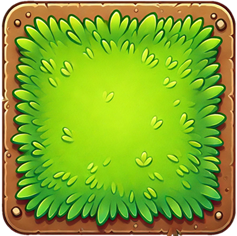
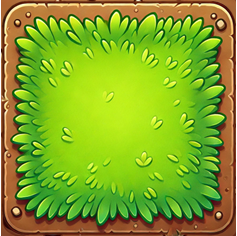
Updated render

Changed region(s): [[0.0, 0.0, 1.0, 1.0]]

diff --git a/src/renderer/renderer.py b/src/renderer/renderer.py
@@ -16,12 +16,12 @@ class Renderer:
         self.image_dir = settings.RENDER_DIR
 
         # Load images once
+        self.item_map = {}  # Map of item locations to image indices
         self.agent_img = mpimg.imread(os.path.join(self.image_dir, "agent.png"))
         self.target_img = mpimg.imread(os.path.join(self.image_dir, "target.png"))
         self.item_images = [
             mpimg.imread(os.path.join(self.image_dir, f"item_{i}.png")) for i in range(4)
         ]
-        self.sparks_img = mpimg.imread(os.path.join(self.image_dir, "sparks.png"))
         self.eligible_cell_img = mpimg.imread(os.path.join(self.image_dir, "eligible_cell.png"))
         self.ineligible_cell_img = mpimg.imread(os.path.join(self.image_dir, "ineligible_cell.png"))
 
@@ -35,7 +35,7 @@ class Renderer:
 
     def _pre_render_grid(self):
         """
-        Pre-render the static grid with eligible/ineligible cells.
+        Pre-render the static grid with eligible/ineligible cells, excluding the target cell.
         """
         rows, cols = self.grid_size
         self.ax.set_xlim(-0.5, cols - 0.5)
@@ -48,9 +48,11 @@ class Renderer:
 
         for r in range(rows):
             for c in range(cols):
+                if (r, c) == (2,0):  # Skip the target cell
+                    continue
                 img = self.eligible_cell_img if (r, c) in self.eligible_cells else self.ineligible_cell_img
                 self.ax.imshow(img, extent=(c - 0.5, c + 0.5, rows - 1 - r - 0.5, rows - 1 - r + 0.5))
-
+                
     def get_images(self):
         return np.array(self.images)
 
@@ -100,23 +102,30 @@ class Renderer:
             fontsize=12, ha="center", color="red", bbox=dict(facecolor="white", alpha=0.7),
         )
 
-        # Draw items with random images
+        # Draw items
         for (item_x, item_y), response_time in zip(item_locs, item_times):
+            # Assign a random ID/image index if this is a new item
+            if (item_x, item_y) not in self.item_map:
+                self.item_map[(item_x, item_y)] = random.choice(range(4))
+
+            image_index = self.item_map[(item_x, item_y)]
+            item_image = self.item_images[image_index]
+
+            # Calculate item size based on remaining lifetime
             lifetime = (self.max_response_time - response_time) / self.max_response_time
             size_factor = 0.3 + 0.7 * lifetime
-            random_item_image = random.choice(self.item_images)  # Randomly choose an item image
             self.ax.imshow(
-                random_item_image,
+                item_image,
                 extent=(item_y - size_factor / 2, item_y + size_factor / 2,
                         rows - 1 - item_x - size_factor / 2, rows - 1 - item_x + size_factor / 2),
             )
 
         # Show sparks if the target count increased
-        if target_count > self.previous_target_count:
+        '''if target_count > self.previous_target_count:
             self.ax.imshow(
                 self.sparks_img,
                 extent=(target_y - 0.5, target_y + 0.5, rows - 1 - target_x - 0.5, rows - 1 - target_x + 0.5),
-            )
+            )'''
 
         # Update the previous target count
         self.previous_target_count = target_count

diff --git a/src/settings.py b/src/settings.py
@@ -17,4 +17,4 @@ CONFIG_DIR = "./config"
 #CONFIG_DIR = "drl-codinglab/config"
 
 RENDER_DIR = "./Images/"
-#RENDER_DIR = "drl-codinglab/renderer/Images"
+#RENDER_DIR = "drl-codinglab/src/renderer/Images"
